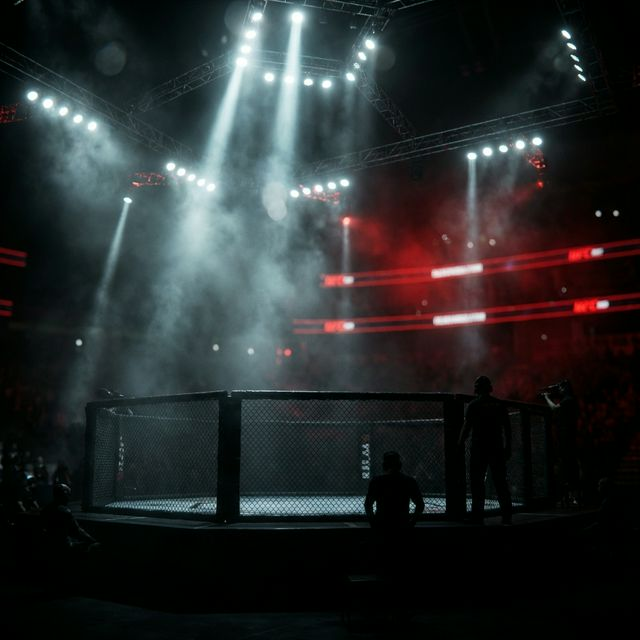
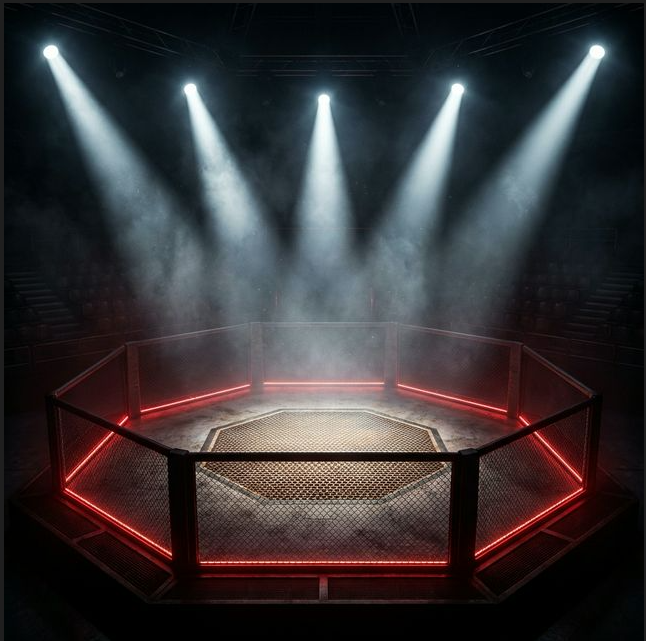
feat: use correct user-provided octagon background and revert card to glassmorphic style

diff --git a/webapp/src/app/auth/login/page.tsx b/webapp/src/app/auth/login/page.tsx
@@ -86,9 +86,9 @@ export default function LoginPage() {
 
     return (
         <div className="min-h-screen flex items-center justify-center bg-black py-12 px-4 sm:px-6 lg:px-8 relative overflow-hidden">
-            {/* Cinematic Background Image */}
+            {/* Cinematic Background Image (Corrected to user-provided image) */}
             <div
-                className="absolute inset-0 z-0 bg-cover bg-center bg-no-repeat opacity-70"
+                className="absolute inset-0 z-0 bg-cover bg-center bg-no-repeat opacity-80"
                 style={{ backgroundImage: "url('/images/octagon-bg.png')" }}
             >
                 <div className="absolute inset-0 bg-gradient-to-b from-black/40 via-transparent to-black/60" />
@@ -109,7 +109,7 @@ export default function LoginPage() {
                     </p>
                 </div>
 
-                {/* Form Wrapper - Reverted to Glassmorphic Style */}
+                {/* Form Wrapper - Glassmorphic Style */}
                 <div className="glass p-8 rounded-2xl border border-white/10 relative overflow-hidden shadow-2xl">
                     <div className="absolute inset-0 bg-gradient-to-br from-white/5 to-transparent pointer-events-none" />
 
